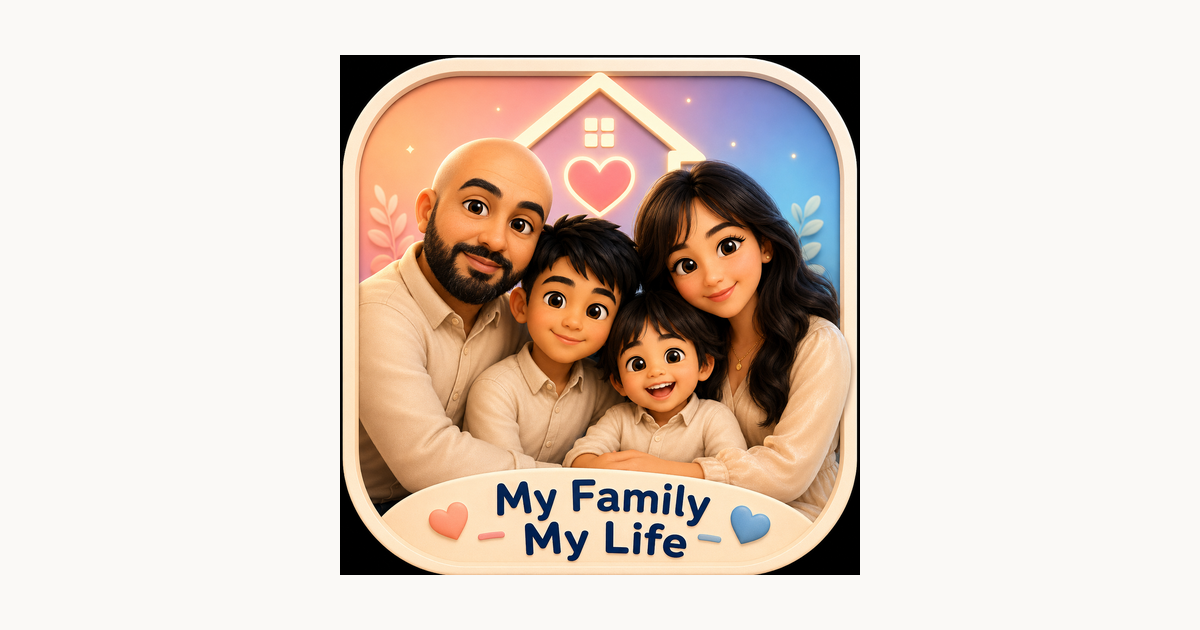
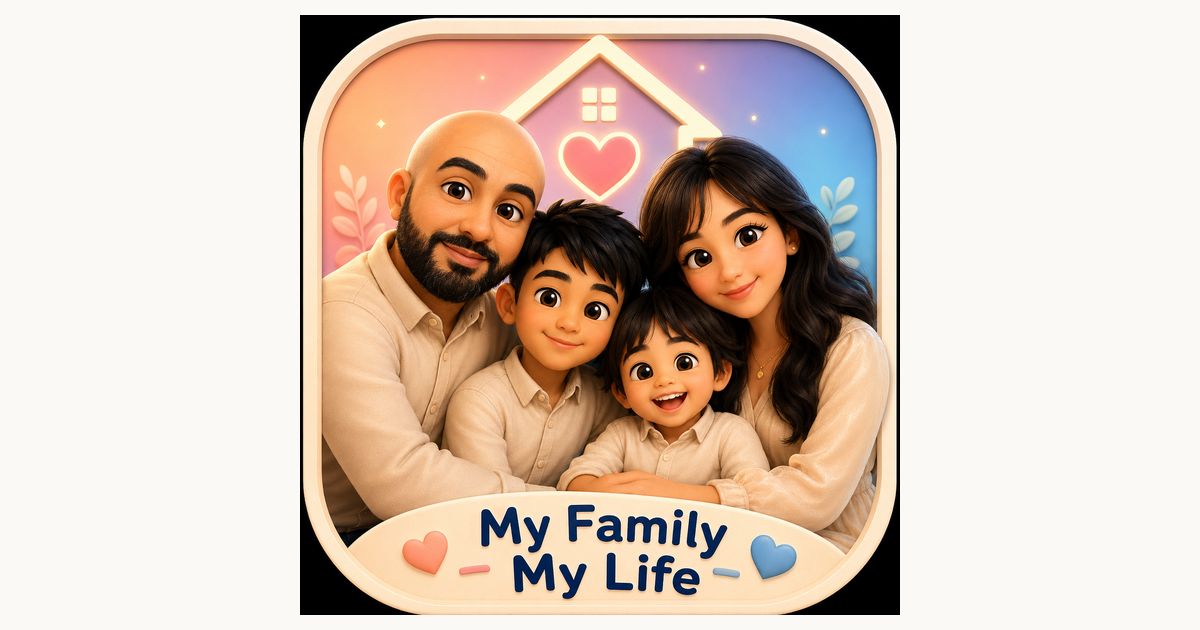
auto-commit for fa62018e-6302-48ca-aff6-e34f702acdbb

diff --git a/frontend/public/index.html b/frontend/public/index.html
@@ -6,7 +6,17 @@
         <meta name="theme-color" content="#2D2A26" />
         <meta name="description" content="One App to Organize Your Entire Family Life" />
         <link rel="icon" type="image/x-icon" href="%PUBLIC_URL%/favicon.ico" />
-        <link rel="apple-touch-icon" href="%PUBLIC_URL%/logo192.png" />
+        <link rel="icon" type="image/png" sizes="192x192" href="%PUBLIC_URL%/logo192.png" />
+        <link rel="icon" type="image/png" sizes="512x512" href="%PUBLIC_URL%/logo512.png" />
+        <link rel="apple-touch-icon" sizes="180x180" href="%PUBLIC_URL%/apple-touch-icon.png" />
+        <meta property="og:title" content="My Family My Life" />
+        <meta property="og:description" content="One App to Organize Your Entire Family Life" />
+        <meta property="og:image" content="%PUBLIC_URL%/og-image.png" />
+        <meta property="og:type" content="website" />
+        <meta name="twitter:card" content="summary_large_image" />
+        <meta name="twitter:title" content="My Family My Life" />
+        <meta name="twitter:description" content="One App to Organize Your Entire Family Life" />
+        <meta name="twitter:image" content="%PUBLIC_URL%/og-image.png" />
         <link rel="manifest" href="%PUBLIC_URL%/manifest.json" />
         <link rel="preconnect" href="https://fonts.googleapis.com" />
         <link rel="preconnect" href="https://fonts.gstatic.com" crossorigin />

diff --git a/frontend/src/pages/Dashboard.jsx b/frontend/src/pages/Dashboard.jsx
@@ -44,9 +44,12 @@ const Dashboard = () => {
           className="flex items-center justify-between mb-8 sm:mb-12"
         >
           <div className="flex items-center gap-3">
-            <div className="w-10 h-10 rounded-2xl bg-gradient-to-br from-[#F472B6] to-[#60A5FA] flex items-center justify-center shadow-md">
-              <span className="text-white font-heading font-bold text-lg">M</span>
-            </div>
+            <img
+              src="/logo192.png"
+              alt="My Family My Life"
+              className="w-11 h-11 sm:w-12 sm:h-12 rounded-2xl object-cover shadow-md ring-1 ring-[#E5E2DC]"
+              data-testid="app-logo"
+            />
             <div>
               <p className="font-heading text-base font-semibold text-[#2D2A26] leading-none">My Family My Life</p>
               <p className="text-xs text-[#7A7571] mt-1 tracking-wide">Family Hub</p>

diff --git a/memory/PRD.md b/memory/PRD.md
@@ -36,6 +36,7 @@
 - PWA: manifest.json, service-worker.js, register-on-load
 - Offline cache fallback in API client (localStorage)
 - Online/offline toast indicator
+- **Feb 2026 (latest)**: Replaced app branding — new "My Family My Life" illustrated logo applied to favicon.ico, logo192/512/1024.png, apple-touch-icon.png, og-image.png, manifest icons (with maskable purpose), and Dashboard header (replaces previous gradient "M" tile). Added OG/Twitter meta tags.
 
 ## Test Coverage
 - Backend: 18/18 pytest cases pass (CRUD + filtering + 404s + PWA assets)